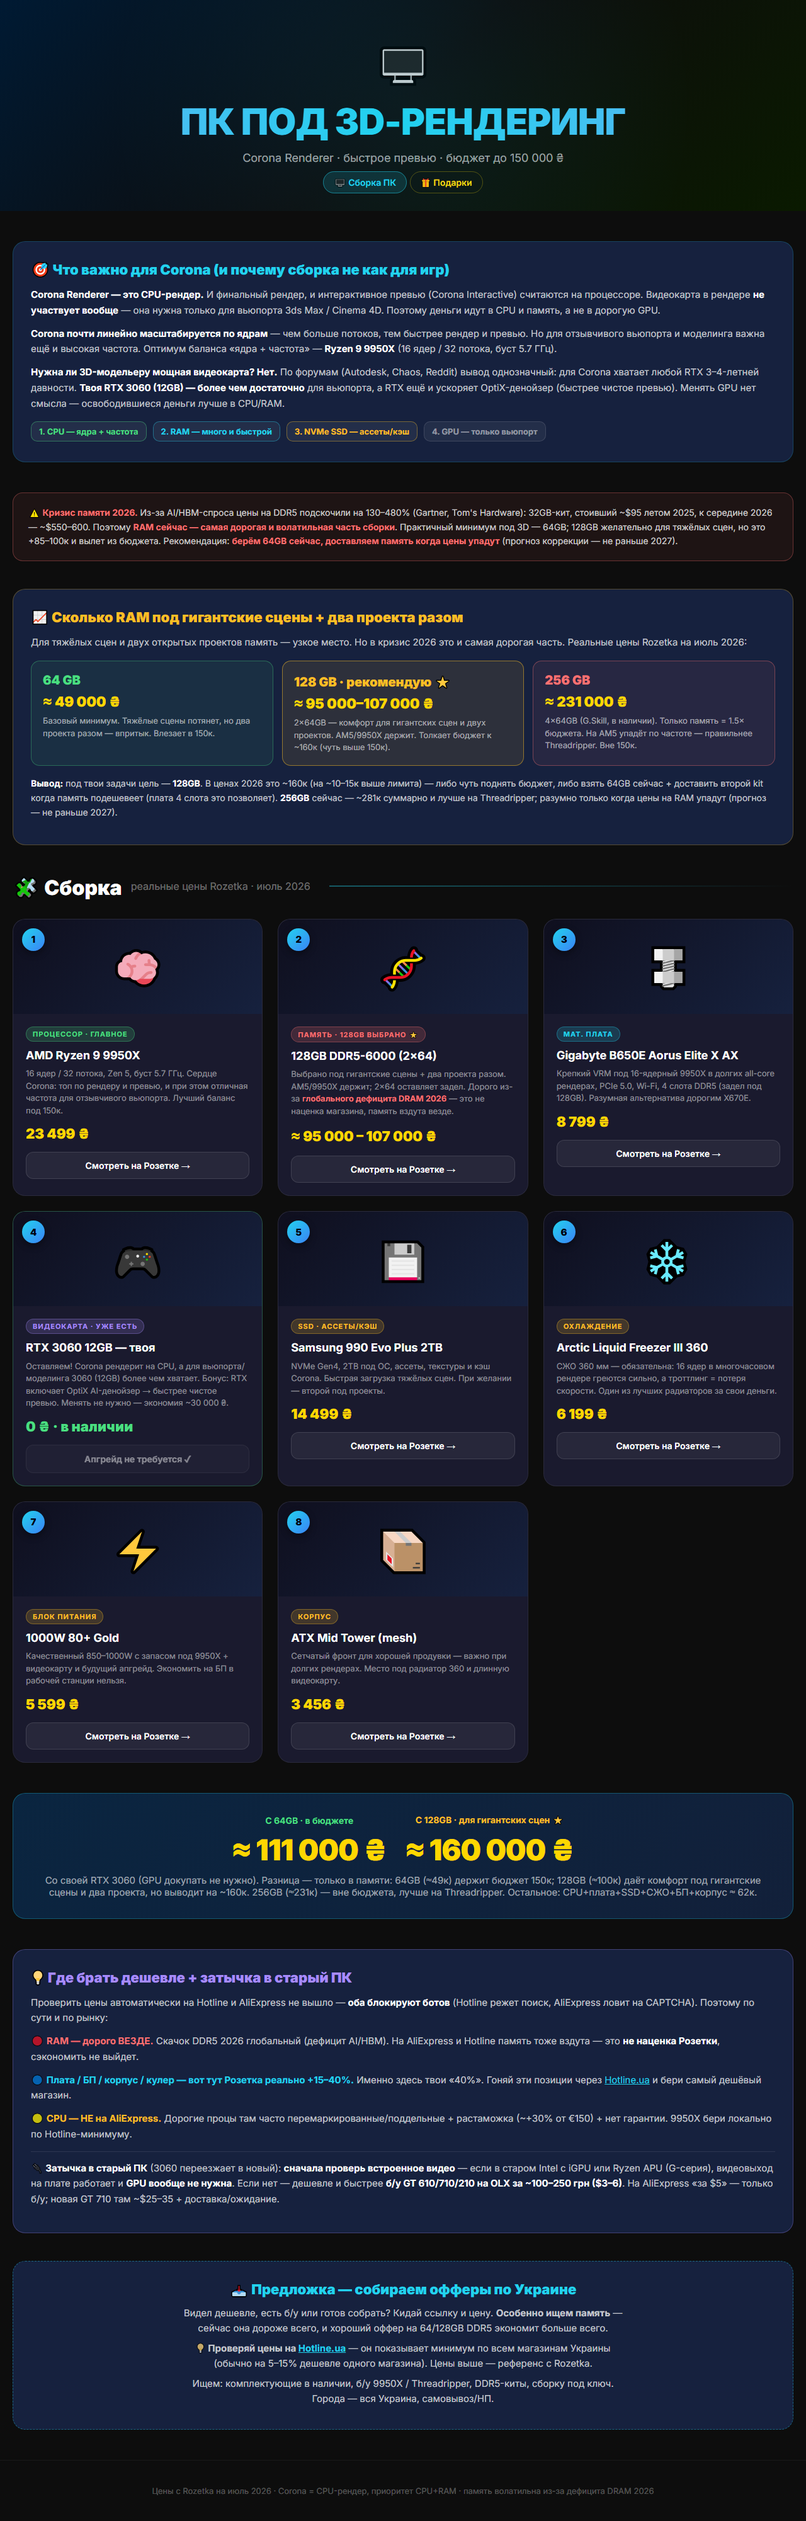
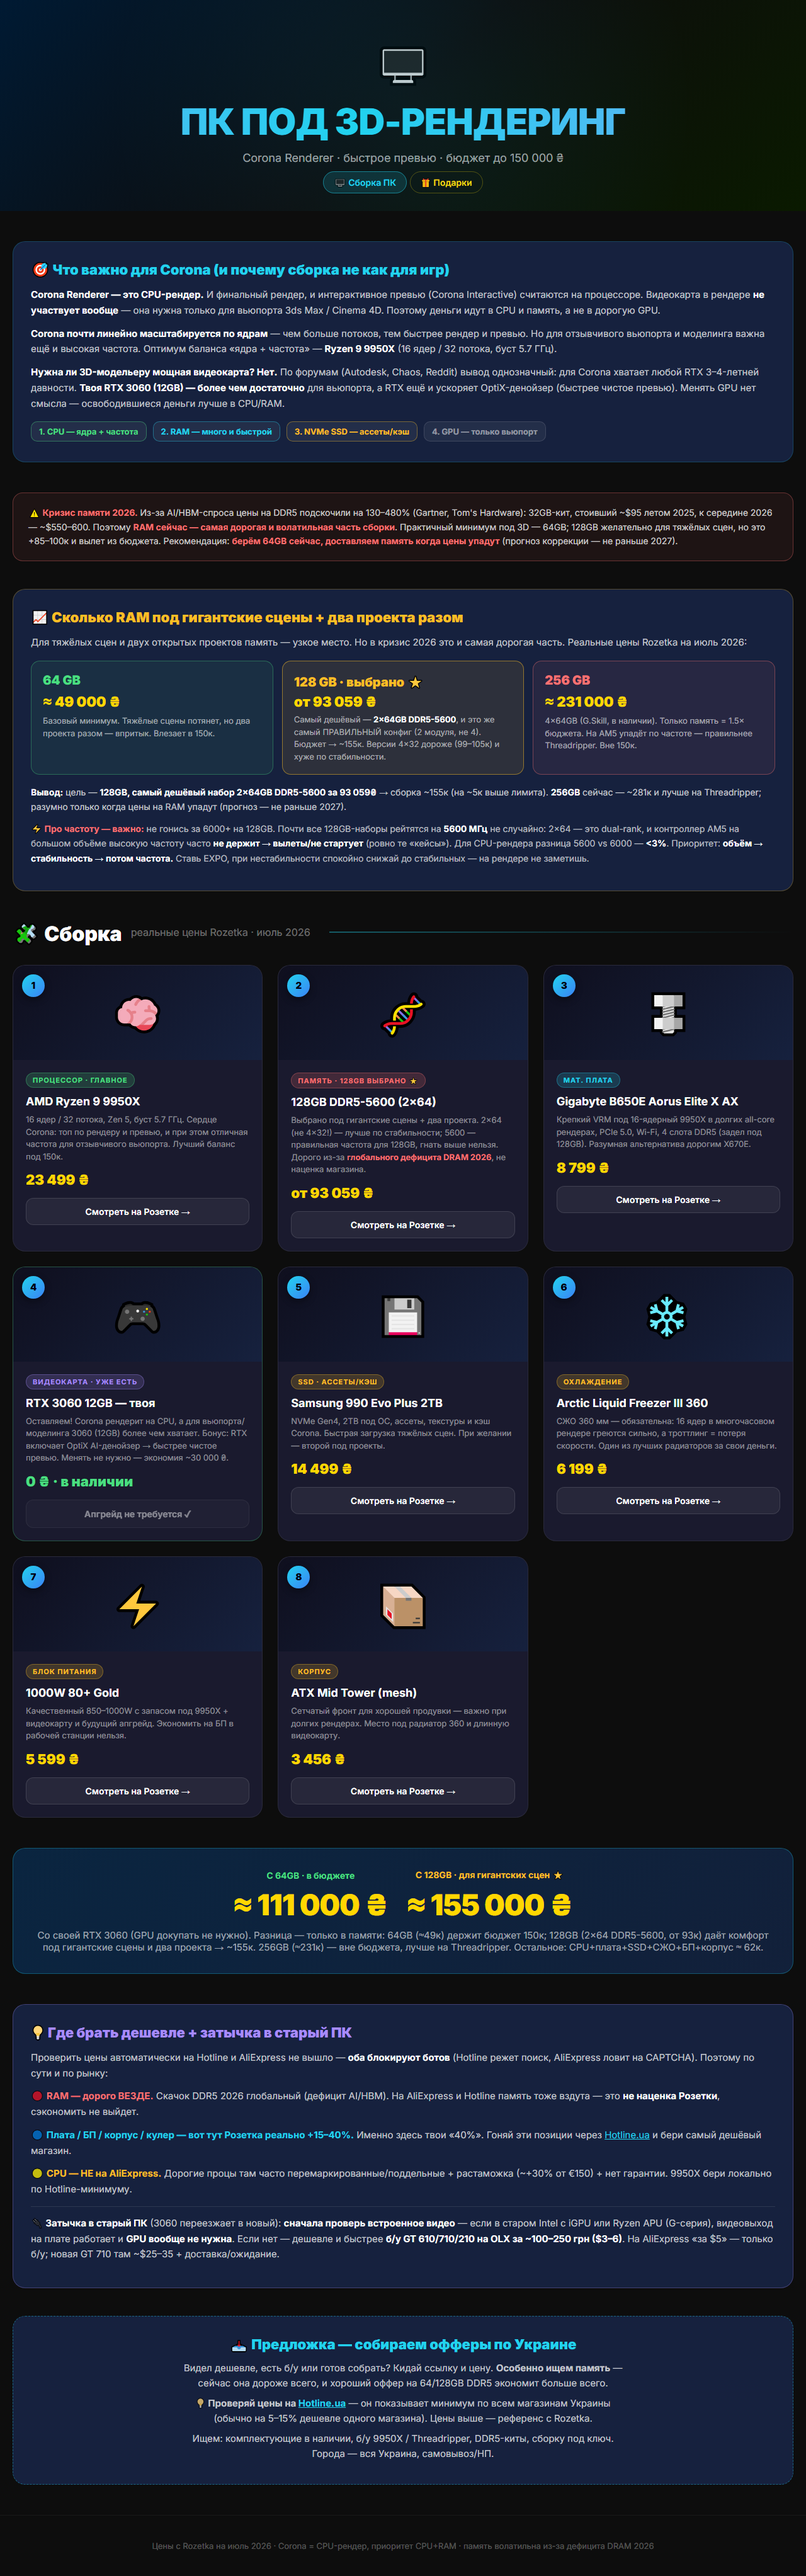
Анализ рынка 128GB + разбор частоты RAM для 3D
- Рынок Rozetka: самый дешёвый 128GB = 93 059₴, и это 2×64GB DDR5-5600 (одновременно самый правильный конфиг). 4×32 дороже и хуже по стабильности
- Итог 128GB уточнён: ≈155к (было 160к)
- Разбор частоты: на 128GB высокая частота опасна (dual-rank + AM5-контроллер → вылеты/не стартует); почти все 128GB рейтятся на 5600 не случайно; для CPU-рендера разница 5600 vs 6000 <3%. Приоритет объём→стабильность→частота
- Память в билде: 128GB DDR5-5600 2×64

Changed region(s): [[0.0, 0.0312, 1.0, 0.968]]

diff --git a/index.html b/index.html
@@ -118,9 +118,9 @@
         <div style="font-size:13px; color:rgba(255,255,255,0.6); line-height:1.5">Базовый минимум. Тяжёлые сцены потянет, но два проекта разом — впритык. Влезает в 150к.</div>
       </div>
       <div style="background:rgba(251,191,36,0.1); border:1px solid rgba(251,191,36,0.5); border-radius:14px; padding:18px">
-        <div style="font-size:20px; font-weight:900; color:#fbbf24">128 GB · рекомендую ⭐</div>
-        <div style="font-size:22px; font-weight:900; color:var(--gold); margin:6px 0">≈ 95 000–107 000 ₴</div>
-        <div style="font-size:13px; color:rgba(255,255,255,0.6); line-height:1.5">2×64GB — комфорт для гигантских сцен и двух проектов. AM5/9950X держит. Толкает бюджет к ~160к (чуть выше 150к).</div>
+        <div style="font-size:20px; font-weight:900; color:#fbbf24">128 GB · выбрано ⭐</div>
+        <div style="font-size:22px; font-weight:900; color:var(--gold); margin:6px 0">от 93 059 ₴</div>
+        <div style="font-size:13px; color:rgba(255,255,255,0.6); line-height:1.5">Самый дешёвый — <b>2×64GB DDR5-5600</b>, и это же самый ПРАВИЛЬНЫЙ конфиг (2 модуля, не 4). Бюджет → ~155к. Версии 4×32 дороже (99–105к) и хуже по стабильности.</div>
       </div>
       <div style="background:rgba(248,113,113,0.08); border:1px solid rgba(248,113,113,0.4); border-radius:14px; padding:18px">
         <div style="font-size:20px; font-weight:900; color:#f87171">256 GB</div>
@@ -128,7 +128,8 @@
         <div style="font-size:13px; color:rgba(255,255,255,0.6); line-height:1.5">4×64GB (G.Skill, в наличии). Только память = 1.5× бюджета. На AM5 упадёт по частоте — правильнее Threadripper. Вне 150к.</div>
       </div>
     </div>
-    <p style="margin-top:16px; font-size:14px"><b>Вывод:</b> под твои задачи цель — <b>128GB</b>. В ценах 2026 это ~160к (на ~10–15к выше лимита) — либо чуть поднять бюджет, либо взять 64GB сейчас + доставить второй kit когда память подешевеет (плата 4 слота это позволяет). <b>256GB</b> сейчас — ~281к суммарно и лучше на Threadripper; разумно только когда цены на RAM упадут (прогноз — не раньше 2027).</p>
+    <p style="margin-top:16px; font-size:14px"><b>Вывод:</b> цель — <b>128GB, самый дешёвый набор 2×64GB DDR5-5600 за 93 059₴</b> → сборка ~155к (на ~5к выше лимита). <b>256GB</b> сейчас — ~281к и лучше на Threadripper; разумно только когда цены на RAM упадут (прогноз — не раньше 2027).</p>
+    <p style="margin-top:8px; font-size:14px; color:rgba(255,255,255,0.7)"><b style="color:#f87171">⚡ Про частоту — важно:</b> не гонись за 6000+ на 128GB. Почти все 128GB-наборы рейтятся на <b>5600 МГц</b> не случайно: 2×64 — это dual-rank, и контроллер AM5 на большом объёме высокую частоту часто <b>не держит → вылеты/не стартует</b> (ровно те «кейсы»). Для CPU-рендера разница 5600 vs 6000 — <b>&lt;3%</b>. Приоритет: <b>объём → стабильность → потом частота.</b> Ставь EXPO, при нестабильности спокойно снижай до стабильных — на рендере не заметишь.</p>
   </div>
 
   <!-- КОМПОНЕНТЫ -->
@@ -152,9 +153,9 @@
       <div class="part-icon">🧬</div>
       <div class="card-body">
         <span class="badge b-ram">Память · 128GB выбрано ⭐</span>
-        <div class="card-name">128GB DDR5-6000 (2×64)</div>
-        <div class="card-desc">Выбрано под гигантские сцены + два проекта разом. AM5/9950X держит; 2×64 оставляет задел. Дорого из-за <b style="color:#f87171">глобального дефицита DRAM 2026</b> — это не наценка магазина, память вздута везде.</div>
-        <div class="card-price">≈ 95 000 – 107 000 ₴</div>
+        <div class="card-name">128GB DDR5-5600 (2×64)</div>
+        <div class="card-desc">Выбрано под гигантские сцены + два проекта. 2×64 (не 4×32!) — лучше по стабильности; 5600 — правильная частота для 128GB, гнать выше нельзя. Дорого из-за <b style="color:#f87171">глобального дефицита DRAM 2026</b>, не наценка магазина.</div>
+        <div class="card-price">от 93 059 ₴</div>
         <a class="card-link" href="https://rozetka.com.ua/ua/search/?text=DDR5%2064GB%206000%20Patriot%20Viper" target="_blank" onclick="event.stopPropagation()">Смотреть на Розетке →</a>
       </div>
     </div>
@@ -242,10 +243,10 @@
       </div>
       <div>
         <div style="font-size:14px; color:#fbbf24; font-weight:700; margin-bottom:4px">С 128GB · для гигантских сцен ⭐</div>
-        <div class="sum" style="font-size:clamp(30px,6vw,46px)">≈ 160 000 ₴</div>
+        <div class="sum" style="font-size:clamp(30px,6vw,46px)">≈ 155 000 ₴</div>
       </div>
     </div>
-    <div class="cap">Со своей RTX 3060 (GPU докупать не нужно). Разница — только в памяти: 64GB (≈49к) держит бюджет 150к; 128GB (≈100к) даёт комфорт под гигантские сцены и два проекта, но выводит на ~160к. 256GB (≈231к) — вне бюджета, лучше на Threadripper. Остальное: CPU+плата+SSD+СЖО+БП+корпус ≈ 62к.</div>
+    <div class="cap">Со своей RTX 3060 (GPU докупать не нужно). Разница — только в памяти: 64GB (≈49к) держит бюджет 150к; 128GB (2×64 DDR5-5600, от 93к) даёт комфорт под гигантские сцены и два проекта → ~155к. 256GB (≈231к) — вне бюджета, лучше на Threadripper. Остальное: CPU+плата+SSD+СЖО+БП+корпус ≈ 62к.</div>
   </div>
 
   <!-- ГДЕ ДЕШЕВЛЕ + ЗАТЫЧКА -->
